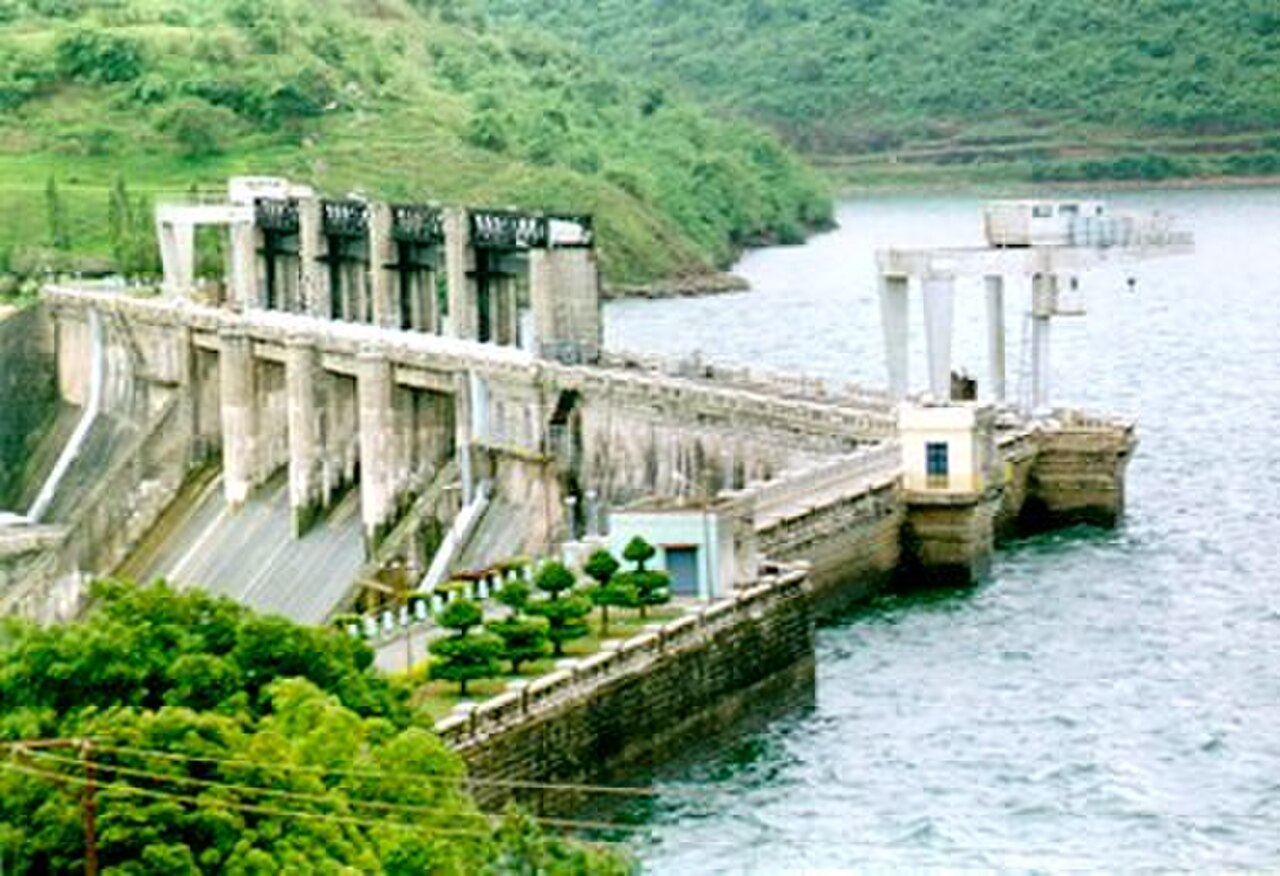
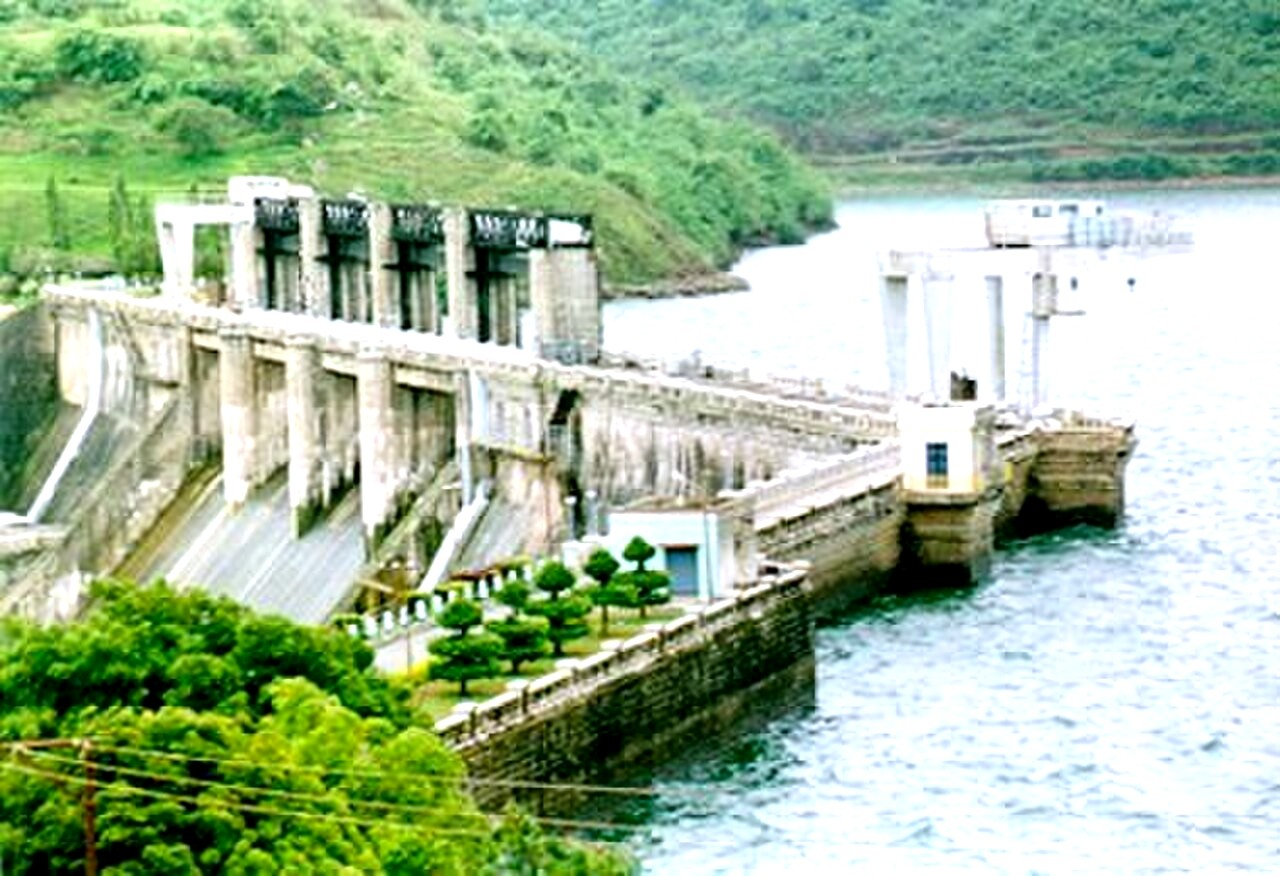
fix: remove background SVG dam drawing & zoom animation, enhance Bhadra dam photo quality, remove Supa dam, and feature Cauvery (KRS) dam first

diff --git a/src/App.jsx b/src/App.jsx
@@ -4013,15 +4013,20 @@ export default function App() {
                 {(()=>{
                   // ── Karnataka dams first, then other top dams by level ──
                   const slideCount = Math.min(8, DAMS.length);
+                  // Remove Supa dam and place Krishna Raja Sagara (KRS / Cauvery) first
                   const karnatakaDams = [...DAMS]
                     .filter(d => (d.state||'').toLowerCase().includes('karnataka'))
+                    .filter(d => d.name !== 'Supa' && !d.name.toLowerCase().includes('supa'))
                     .sort((a,b)=>{
+                      if (a.name.includes('KRS') || a.name.toLowerCase().includes('krishna raja sagara')) return -1;
+                      if (b.name.includes('KRS') || b.name.toLowerCase().includes('krishna raja sagara')) return 1;
                       const la=typeof a.level==='number'?a.level:parseFloat(a.level)||0;
                       const lb=typeof b.level==='number'?b.level:parseFloat(b.level)||0;
                       return lb-la;
                     });
                   const otherDams = [...DAMS]
                     .filter(d => !(d.state||'').toLowerCase().includes('karnataka'))
+                    .filter(d => d.name !== 'Supa' && !d.name.toLowerCase().includes('supa'))
                     .sort((a,b)=>{
                       const la=typeof a.level==='number'?a.level:parseFloat(a.level)||0;
                       const lb=typeof b.level==='number'?b.level:parseFloat(b.level)||0;
@@ -4151,39 +4156,11 @@ export default function App() {
                             referrerPolicy="no-referrer"
                             style={{
                               width:'100%', height:'100%', objectFit:'cover', objectPosition:'center',
-                              filter:'brightness(0.55) contrast(1.1)',
-                              animation:'heroBgZoom 8s ease both'
+                              filter:'brightness(0.48) contrast(1.15)',
+                              transition:'opacity 0.8s ease'
                             }}
                           />
                         </div>
-
-                        {/* Large decorative dam cross-section — background visual */}
-                        <svg style={{
-                          position:'absolute', right:0, top:0, width:'62%', height:'100%',
-                          zIndex:1, opacity:0.18
-                        }} viewBox="0 0 500 400" preserveAspectRatio="xMidYMid slice">
-                          {/* Sky */}
-                          <rect width="500" height="400" fill="#020810"/>
-                          {/* Mountain silhouette */}
-                          <path d="M0,120 L40,60 L90,110 L130,30 L180,90 L220,20 L270,80 L310,100" fill="#071422" opacity="0.9"/>
-                          <path d="M0,130 L50,90 L100,120 L140,55 L190,105 L230,45 L280,95 L310,110 L310,270 L0,270" fill="#040e1c" opacity="0.95"/>
-                          {/* Ground */}
-                          <polygon points="0,270 200,270 200,300 500,300 500,400 0,400" fill="#060d18"/>
-                          {/* Dam body */}
-                          <polygon points="200,60 225,60 370,300 200,300" fill="#374151"/>
-                          <polygon points="225,60 240,60 385,300 370,300" fill="#1f2937"/>
-                          {/* Crest slab */}
-                          <rect x="200" y="50" width="40" height="10" fill="#4b5563"/>
-                          {/* Water */}
-                          <rect x="0" y={60+(1-level/100)*210} width="200" height={270-(60+(1-level/100)*210)} fill={pal.accent} opacity="0.18"/>
-                          {/* Wave on surface */}
-                          <path d={`M -60,${60+(1-level/100)*210} C -30,${60+(1-level/100)*210-6} 0,${60+(1-level/100)*210+6} 30,${60+(1-level/100)*210} C 60,${60+(1-level/100)*210-6} 90,${60+(1-level/100)*210+6} 120,${60+(1-level/100)*210} C 150,${60+(1-level/100)*210-6} 180,${60+(1-level/100)*210+6} 210,${60+(1-level/100)*210}`}
-                            fill="none" stroke={pal.accent} strokeWidth="2" opacity="0.4"/>
-                          {/* Outflow jet */}
-                          {outflow>0 && <path d="M 200,268 C 230,268 290,295 330,300" fill="none" stroke={pal.accent} strokeWidth="3" opacity="0.5"/>}
-                          {/* River */}
-                          <rect x="370" y="290" width="130" height="10" fill={pal.accent} opacity="0.12"/>
-                        </svg>
 
                         {/* Dark left-to-right gradient overlay — like travel agency */}
                         <div style={{
